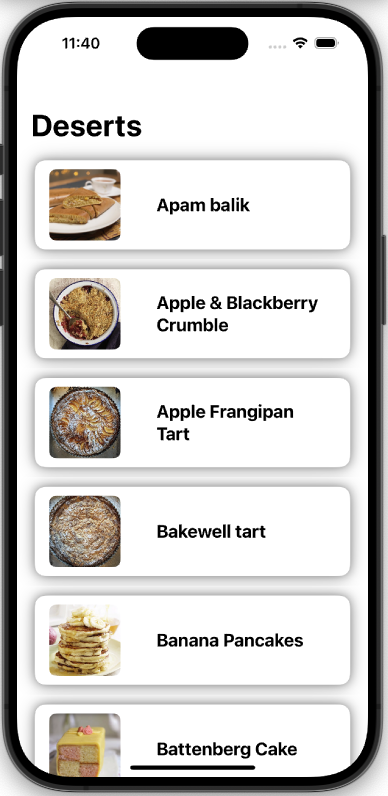
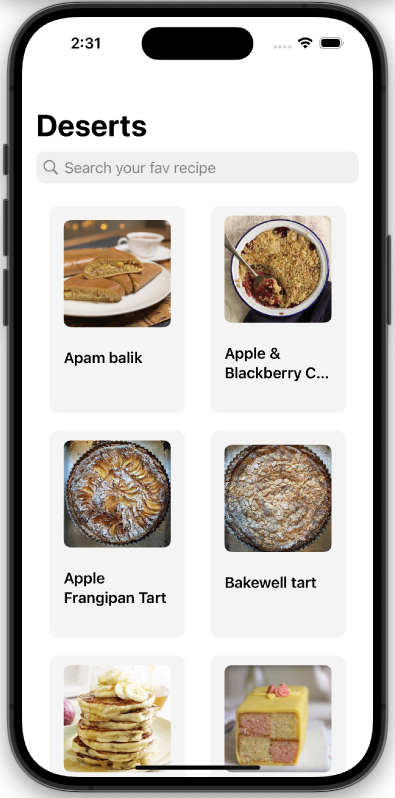
update project details

diff --git a/README.md b/README.md
@@ -20,7 +20,9 @@ I am a passionate iOS developer with a knack for building seamless and impactful
 | 💻 | Swift |
 | 🎨 | SwiftUI |
 
-<img src="Assets/remote/Meals_Dashboard.png" alt="Image 1" width="200" style="display: inline-block; margin-right: 10px;"> <img src="Assets/remote/Meal_Details.png" alt="Image 1" width="200" style="display: inline-block; margin-right: 10px;"> <img src="Assets/remote/Meals_Recording.gif" alt="Image 1" width="200" style="display: inline-block; margin-right: 10px;">
+<img src="Assets/remote/Meals_Dashboard.png" alt="Image 1" width="200" style="display: inline-block; margin-right: 10px;"> <img src="Assets/remote/Meals_Instructions.png" alt="Image 1" width="200" style="display: inline-block; margin-right: 10px;"> <img src="Assets/remote/Meals_Recording.gif" alt="Image 1" width="200" style="display: inline-block; margin-right: 10px;">
+
+<img src="Assets/remote/Meals_Ingredients.png" alt="Image 1" width="200" style="display: inline-block; margin-right: 10px;"> <img src="Assets/remote/Meals_Search.png" alt="Image 1" width="200" style="display: inline-block; margin-right: 10px;"> <img src="Assets/remote/Meals_Search_Recording.gif" alt="Image 1" width="200" style="display: inline-block; margin-right: 10px;">
 
 ### Description
 
